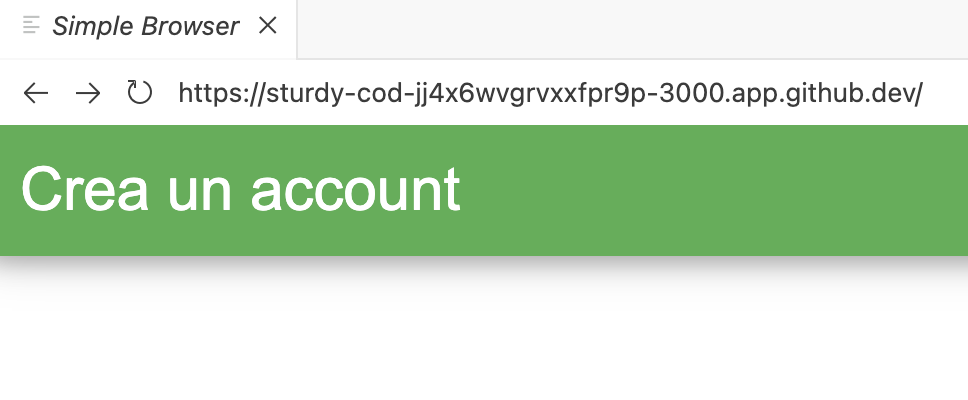
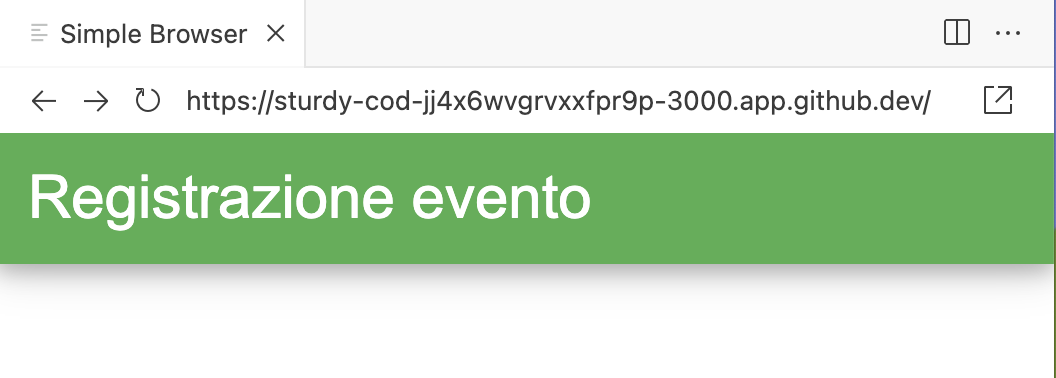
Esercizi 03 e 04 (text box, password)

diff --git a/index.html b/index.html
@@ -5,7 +5,7 @@
     <meta name="viewport" content="width=device-width, initial-scale=1" />
     <title>Client Web</title>
     <!-- Inserire qui il codice per caricare i css di w3.css --> 
-    
+        
   </head>
   <body>
     <!-- Inserire qui il codice per definire il form -->

diff --git a/doc/doc04_form_pwd.md b/doc/doc04_form_pwd.md
@@ -10,8 +10,43 @@ Il tag **label** viene utilizzato per descrivere l'input. Il tag **input** defin
 L'attributo _type="password"_ stabilisce che l'input inserito è di tipo password e che quindi non sarà visibile durante la digitazione. <br/>
 L'attributo _name="pwd"_ definisce la variabile _pwd_ che potrà essere usata dal server quando riceverà i dati inseriti.
 
-Aggiornando il nostro esempio con l'input password, si ottiene il seguente risultato.
+## Esercizio 04 - Aggiungere nel form l'input password
+
+Nel file **index.html**, all'interno del form già predisposto in **Esercizio 03**, aggiungere:
+- un input per la password di accesso all'evento
+
+Il risultato atteso è il seguente:
 ![esempio form](img05_formPwd01.png)
+
+<details style="border: 1px solid #007bff; border-radius: 5px; padding: 10px; background-color: #f0f0f0;">
+  <summary>Solo dopo aver svolto l'esercizio, apri qui per vedere la soluzione</summary>
+
+```html
+    <div class="w3-card-4">
+      <div class="w3-container w3-green">
+        <h2>Registrazione evento</h2>
+      </div>
+      <form class="w3-container">
+        <p>
+        <input class="w3-input" type="text" name="nome">
+        <label>Nome</label></p>
+        <p>
+        <input class="w3-input" type="text" name="cognome">
+        <label>Cognome</label></p>
+        <p>
+        <input class="w3-input" type="number" name="eta">
+        <label>Età</label></p>
+        <p>
+        <input class="w3-input" type="date" name="dataEvento">
+        <label>Data evento</label></p>
+        <p>
+        <label>Password Evento</label>
+        <input class="w3-input w3-border" type="password" name="pwd">
+      </form>
+    </div>
+
+```
+</details>
 
 <br/>
 

diff --git a/doc/doc02_client_web.md b/doc/doc02_client_web.md
@@ -36,8 +36,9 @@ Che definisce il seguente form html:
 
 ## Esercizio 01: predisponiamo il form
 Predisponiamo questo progetto per un Client Web per ospitare un form con cui invieremo dei dati al Server.
+In particolare vogliamo implementare un'interfaccia cui cui l'utente può registrarsi ad un evento sportivo.
 
-Il file index.html rappresenta il punto di partenza di un'applicazione Client Web.
+Il file **index.html** rappresenta il punto di partenza di un'applicazione Client Web.
 - Aprire il file index.html e predisporlo per ospitare un form.
 - Nella sezione &lt;head> carichiamo i css di w3.css
 
@@ -53,14 +54,14 @@ Useremo W3.CSS per creare l'interfaccia utente del Client Web.
 ```html
     <div class="w3-card-4">
       <div class="w3-container w3-green">
-        <h2>Crea un account</h2>
+        <h2>Registrazione evento</h2>
       </div>
       <form class="w3-container">
       </form>
     </div>
 ```
 
-I tag %lt;div> non sono necessari per la creazione di un form, ma è consigliabile usarli per "inglobare" un form al loro interno per applicare uno stile w3.css.
+I tag &lt;div> non sono necessari per la creazione di un form, ma è consigliabile usarli per "inglobare" un form al loro interno per applicare uno stile w3.css.
 
 Nella finestra "Simple Browser", premendo il pulsante Refresh, osserviamo il risultato seguente:
 ![Risultato esercizio](./img03a_result01.png)

diff --git a/doc/doc03_form.md b/doc/doc03_form.md
@@ -34,8 +34,44 @@ ottenendo il seguente risultato.
 
 <br/>
 
-## Esercizio
-**DA SCRIVERE**
+## Esercizio 03 - Aggiungere nel form, l'input di testo, numerico e data
+
+Nel file **index.html**, all'interno del form già predisposto in **Esercizio 01**, aggiungere:
+- un input di testo per inserire il nome
+- un input di testo per inserire il cognome
+- un input numerico per inserire l'età
+- un input numerico per inserire la data dell'evento
+
+<details style="border: 1px solid #007bff; border-radius: 5px; padding: 10px; background-color: #f0f0f0;">
+  <summary>Solo dopo aver svolto l'esercizio, apri qui per vedere la soluzione</summary>
+
+```html
+    <div class="w3-card-4">
+      <div class="w3-container w3-green">
+        <h2>Registrazione evento</h2>
+      </div>
+      <form class="w3-container">
+        <p>
+        <input class="w3-input" type="text" name="nome">
+        <label>Nome</label></p>
+        <p>
+        <input class="w3-input" type="text" name="cognome">
+        <label>Cognome</label></p>
+        <p>
+        <input class="w3-input" type="number" name="eta">
+        <label>Età</label></p>
+        <p>
+        <input class="w3-input" type="date" name="dataEvento">
+        <label>Data evento</label></p>
+        <p>
+      </form>
+    </div>
+
+```
+</details>
+<br/>
+
+
 
 
 [Clicca qui per la prossima lezione](./doc04_form_pwd.md)

diff --git a/doc/doc05_form_checkbox.md b/doc/doc05_form_checkbox.md
@@ -82,4 +82,8 @@ Dopo la selezione dell'opzione, l'utente potrà vedere tutte le opzioni possibil
 ### Conclusioni
 Le check box, i radio button e le combobox sono elementi fondamentali dei form HTML. Grazie al loro utilizzo, è possibile creare interfacce utente semplici ed intuitive. L'utilizzo di w3.css può aiutare a migliorare l'aspetto estetico delle check box e dei radio button, rendendoli più piacevoli alla vista.
 
+## Esercizio 05 - Aggiungere nel form le opzioni di registrazione
+
+DA SCRIVERE
+
 <br/>
